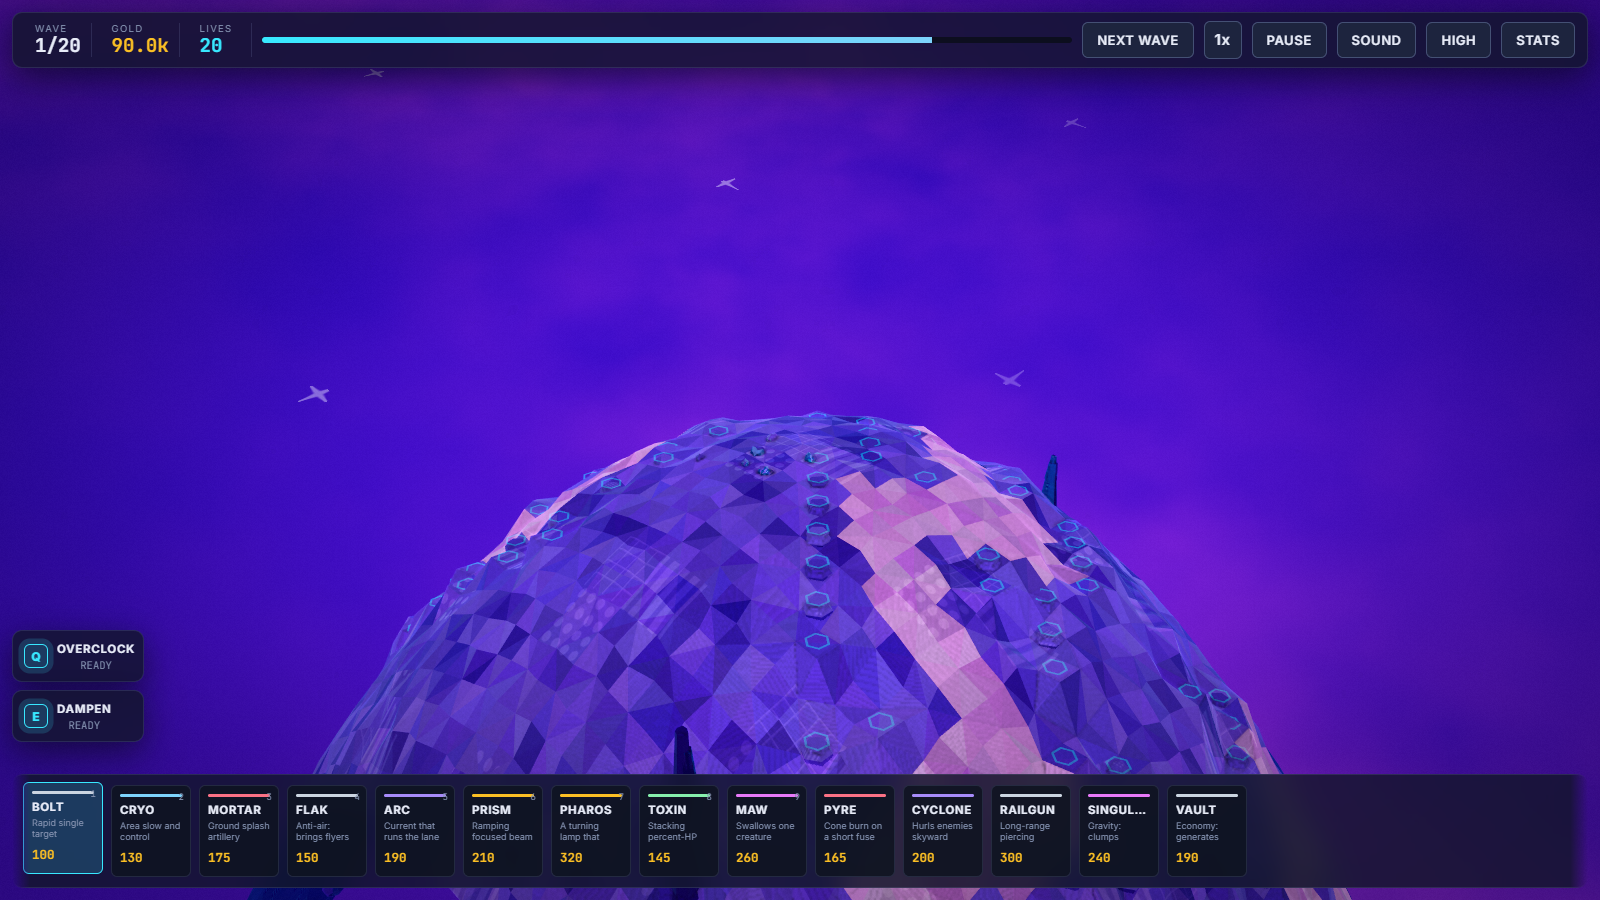
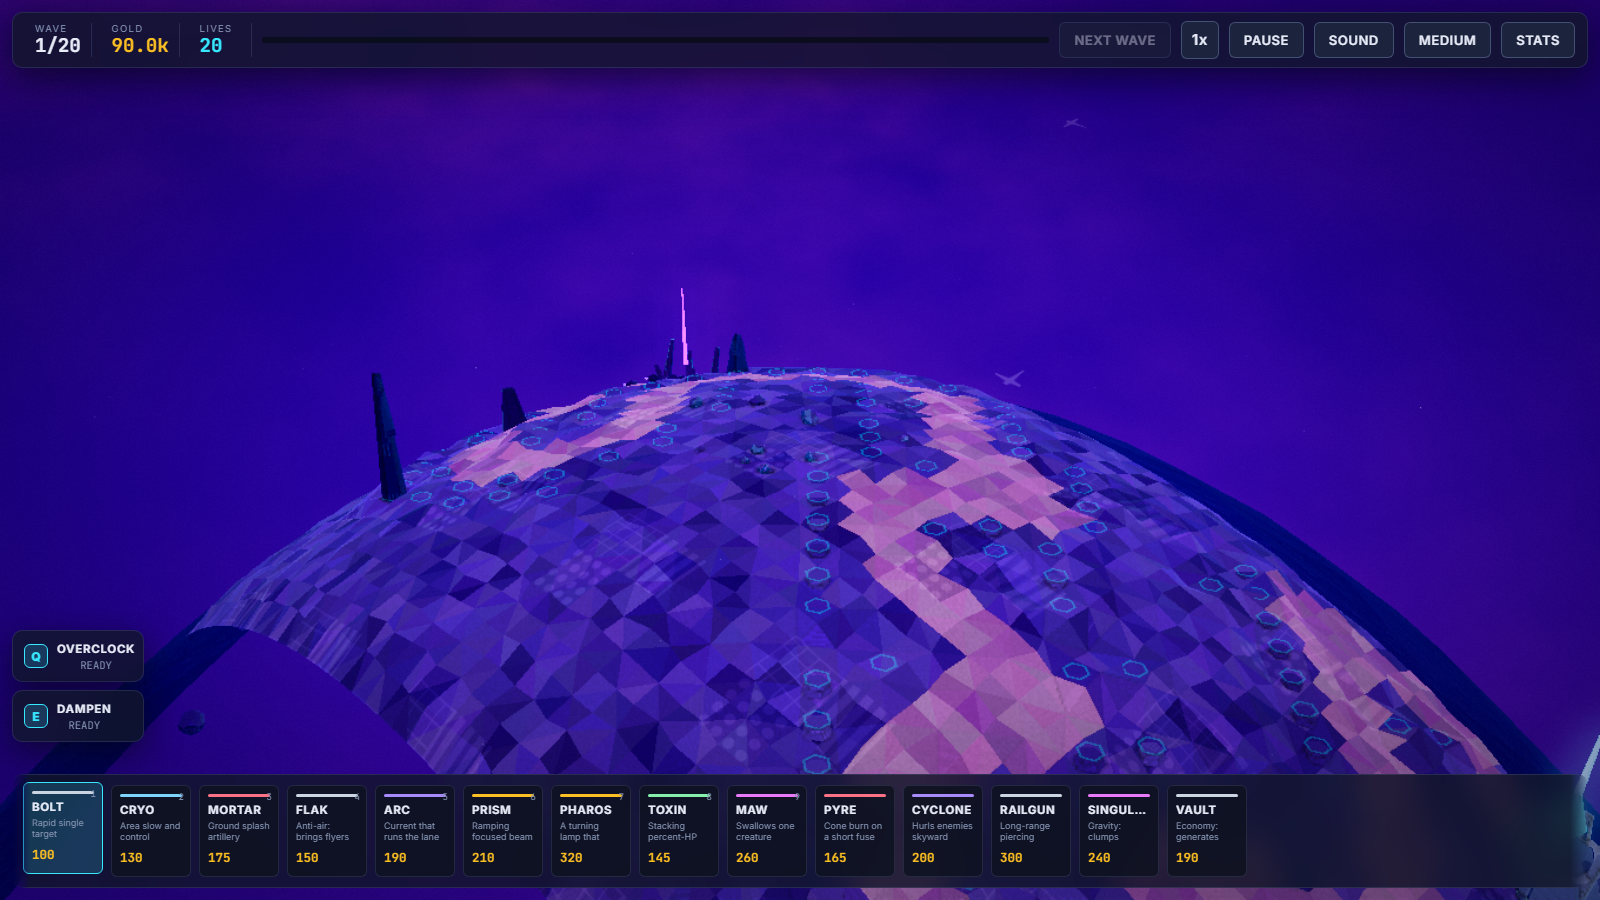
AETHER fix: HALFWORLD road+shoreline - road reads as a continuous bright-core ribbon (two-tier palette, near-zero per-triangle shift on path), board edge ring dips below the world parabola so the globe tucks over the shoreline (no ledge, no detached-rim islands)

diff --git a/cosmic-aether/cosmic-aether.html b/cosmic-aether/cosmic-aether.html
@@ -5812,14 +5812,23 @@ var TERRAIN = (function () {
 
     /* PLANET SAG. The board is now a biome on a globe: every height is pulled
        down by its own spherical sag so the plateau bends toward the horizon,
-       and a big planet sphere below catches the edges (the border dives under
-       it, so there is no floating rim and no gap anywhere). Gameplay stays
-       flat enough: the sag is ~4 units over a 45-unit half extent, and units
-       and click targets use heightAt, which knows the sag. */
+       and the world surface below catches the edges. Gameplay stays flat
+       enough: units and click targets use heightAt, which knows the sag. */
     var SAG_R = def.sagR || 300.0;
     for (var sgi = 0; sgi < HW * HH; sgi++) {
       var sx2 = (sgi % HW) * CS - halfW, sz2 = Math.floor(sgi / HW) * CS - halfH;
       height[sgi] -= (sx2 * sx2 + sz2 * sz2) / (2.0 * SAG_R);
+    }
+    /* SHORELINE TUCK. The boundary ring dips below the world's surface (the
+       world is the same parabola minus an underhang). The world then covers
+       the last sliver of board from above, so the plate's edge disappears
+       under the globe instead of floating on it: no ledge, no detached-rim
+       illusion on the steep far side of a small planet. */
+    for (var sgj = 0; sgj < HH; sgj++) {
+      for (var sgi2 = 0; sgi2 < HW; sgi2++) {
+        var isEdge = (sgi2 === 0 || sgj === 0 || sgi2 === HW - 1 || sgj === HH - 1);
+        if (isEdge) height[sgj * HW + sgi2] -= 0.55;
+      }
     }
 
     function heightAt(wx, wz) {
@@ -5922,10 +5931,13 @@ var TERRAIN = (function () {
         var z0 = -halfH + j * CS, z1 = z0 + CS;
         var pd = (pdist[i00] + pdist[i10] + pdist[i01] + pdist[i11]) * 0.25;
         var onPath = pd < pathWidth * 1.05;
+        var core = onPath && pd < pathWidth * 0.55;
 
         var r = rnd();
         var col = onPath
-          ? pathCols[Math.floor(r * pathCols.length) % pathCols.length]
+          ? (core
+              ? (r < 0.5 ? '#b06b9b' : '#a35c8f')
+              : (r < 0.5 ? '#7d4a73' : '#6e4170'))
           : groundCols[Math.floor(r * groundCols.length) % groundCols.length];
         var base = U.hex2rgb(col);
         gb.tooth(onPath ? 0.75 : 1.0);
@@ -5944,10 +5956,17 @@ var TERRAIN = (function () {
            result is coherent patches with visible internal brushwork, which is
            what the reference plates actually do. */
         function stroke() {
-          gb.color(U.shift(base,
-            (rnd() - 0.5) * 0.022,
-            (rnd() - 0.5) * 0.14,
-            (rnd() - 0.5) * 0.075));
+          if (onPath) {
+            gb.color(U.shift(base,
+              (rnd() - 0.5) * 0.012,
+              (rnd() - 0.5) * 0.03,
+              (rnd() - 0.5) * 0.02));
+          } else {
+            gb.color(U.shift(base,
+              (rnd() - 0.5) * 0.022,
+              (rnd() - 0.5) * 0.14,
+              (rnd() - 0.5) * 0.075));
+          }
         }
         /* Alternate the diagonal per cell. A uniform diagonal across a whole
            grid produces a visible corduroy running the length of the board,

diff --git a/cosmic-aether/js/06-terrain.js b/cosmic-aether/js/06-terrain.js
@@ -195,14 +195,23 @@ var TERRAIN = (function () {
 
     /* PLANET SAG. The board is now a biome on a globe: every height is pulled
        down by its own spherical sag so the plateau bends toward the horizon,
-       and a big planet sphere below catches the edges (the border dives under
-       it, so there is no floating rim and no gap anywhere). Gameplay stays
-       flat enough: the sag is ~4 units over a 45-unit half extent, and units
-       and click targets use heightAt, which knows the sag. */
+       and the world surface below catches the edges. Gameplay stays flat
+       enough: units and click targets use heightAt, which knows the sag. */
     var SAG_R = def.sagR || 300.0;
     for (var sgi = 0; sgi < HW * HH; sgi++) {
       var sx2 = (sgi % HW) * CS - halfW, sz2 = Math.floor(sgi / HW) * CS - halfH;
       height[sgi] -= (sx2 * sx2 + sz2 * sz2) / (2.0 * SAG_R);
+    }
+    /* SHORELINE TUCK. The boundary ring dips below the world's surface (the
+       world is the same parabola minus an underhang). The world then covers
+       the last sliver of board from above, so the plate's edge disappears
+       under the globe instead of floating on it: no ledge, no detached-rim
+       illusion on the steep far side of a small planet. */
+    for (var sgj = 0; sgj < HH; sgj++) {
+      for (var sgi2 = 0; sgi2 < HW; sgi2++) {
+        var isEdge = (sgi2 === 0 || sgj === 0 || sgi2 === HW - 1 || sgj === HH - 1);
+        if (isEdge) height[sgj * HW + sgi2] -= 0.55;
+      }
     }
 
     function heightAt(wx, wz) {
@@ -305,10 +314,13 @@ var TERRAIN = (function () {
         var z0 = -halfH + j * CS, z1 = z0 + CS;
         var pd = (pdist[i00] + pdist[i10] + pdist[i01] + pdist[i11]) * 0.25;
         var onPath = pd < pathWidth * 1.05;
+        var core = onPath && pd < pathWidth * 0.55;
 
         var r = rnd();
         var col = onPath
-          ? pathCols[Math.floor(r * pathCols.length) % pathCols.length]
+          ? (core
+              ? (r < 0.5 ? '#b06b9b' : '#a35c8f')
+              : (r < 0.5 ? '#7d4a73' : '#6e4170'))
           : groundCols[Math.floor(r * groundCols.length) % groundCols.length];
         var base = U.hex2rgb(col);
         gb.tooth(onPath ? 0.75 : 1.0);
@@ -327,10 +339,17 @@ var TERRAIN = (function () {
            result is coherent patches with visible internal brushwork, which is
            what the reference plates actually do. */
         function stroke() {
-          gb.color(U.shift(base,
-            (rnd() - 0.5) * 0.022,
-            (rnd() - 0.5) * 0.14,
-            (rnd() - 0.5) * 0.075));
+          if (onPath) {
+            gb.color(U.shift(base,
+              (rnd() - 0.5) * 0.012,
+              (rnd() - 0.5) * 0.03,
+              (rnd() - 0.5) * 0.02));
+          } else {
+            gb.color(U.shift(base,
+              (rnd() - 0.5) * 0.022,
+              (rnd() - 0.5) * 0.14,
+              (rnd() - 0.5) * 0.075));
+          }
         }
         /* Alternate the diagonal per cell. A uniform diagonal across a whole
            grid produces a visible corduroy running the length of the board,
